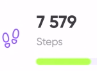
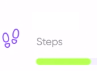
installed react carosel for scroll effect

Changed region(s): [[0.4948, 0.1972, 0.8041, 0.3944], [0.3711, 0.1972, 0.4639, 0.3944]]

diff --git a/src/components/Landing/carousel/CarouselComponent.jsx b/src/components/Landing/carousel/CarouselComponent.jsx
@@ -1,0 +1,63 @@
+import React from "react";
+import Carousel from "react-elastic-carousel";
+import "./Styles.css";
+import { Item } from "./Item";
+import step1 from "../../../assets/step1.png";
+import stp3 from "../../../assets/stp3.png";
+import step2 from "../../../assets/step2.png";
+
+const CarouselData = [
+  {
+    id: 1,
+    icon: step1,
+    caption: "walking foot",
+    amount: "7 579",
+    sub: "",
+  },
+  {
+    id: 2,
+    icon: step2,
+    caption: "Active Users",
+    amount: "866",
+    sub: "",
+  },
+  {
+    id: 3,
+    icon: stp3,
+    caption: "Active Users",
+    amount: "27",
+    sub: "mins",
+  },
+];
+
+const breakPoints = [
+  { width: 1, itemsToShow: 1 },
+  { width: 500, itemsToShow: 2 },
+  { width: 768, itemsToShow: 2 },
+  { width: 1280, itemsToShow: 2 },
+  { width: 1000, itemsToShow: 2 },
+];
+
+const CarouselComponent = () => {
+  return (
+    <Carousel
+      breakPoints={breakPoints}
+      pagination={false}
+      className="carousel-root"
+    >
+      {CarouselData.map((item, index) => (
+        <Item key={index} className="item-div">
+          <div className="usercard">
+            <h3 className="name">
+              {item.amount} <sub style={{ fontWeight: "100" }}>{item.sub}</sub>
+            </h3>
+
+            <img src={item.icon} alt="" className="img" />
+          </div>
+        </Item>
+      ))}
+    </Carousel>
+  );
+};
+
+export default CarouselComponent;

diff --git a/src/pages/LandingPage.jsx b/src/pages/LandingPage.jsx
@@ -9,6 +9,7 @@ import { Footer } from "../components/Landing/Footer";
 import AOS from "aos";
 import "aos/dist/aos.css";
 import { useEffect } from "react";
+// eslint-disable-next-line
 import UsersDashboardCard, {
   SingleCard,
   WeightCardLine,
@@ -16,6 +17,7 @@ import UsersDashboardCard, {
   BMICardBar,
 } from "../components/WorkoutCard";
 import { AddModal } from "../components/AddModal";
+import CarouselComponent from "../components/Landing/carousel/CarouselComponent";
 export const LandingPage = () => {
   const [active, setActive] = useState();
   // eslint-disable-next-line
@@ -110,11 +112,9 @@ export const LandingPage = () => {
           </Nav>
           <br />
           <br />
-          <br />
-          <br />
-          <br />
           <WorkOutCard>
-            <UsersDashboardCard />
+            {/* <UsersDashboardCard /> */}
+            <CarouselComponent />
           </WorkOutCard>
           <div
             className="displayText"
@@ -160,7 +160,6 @@ export const LandingPage = () => {
             <p>see all</p>
           </div>{" "}
           <SingleCard />
-          <br />
           <br />
           <br />
           <br />

diff --git a/src/components/Landing/carousel/Item.js b/src/components/Landing/carousel/Item.js
@@ -1,0 +1,44 @@
+import styled from "styled-components";
+
+export const Item = styled.div`
+  display: flex;
+  flex-direction: column;
+  align-items: flex-start;
+  padding: 20px 16px;
+  /* gap: 24px; */
+  width: 95%;
+  height: 100px;
+  background: #fff;
+  box-shadow: 3px 5px 20px rgba(0, 0, 0, 0.04);
+  border: 1px solid rgba(33, 63, 125, 0.06);
+  padding: 20%;
+  margin: 6%;
+  border-radius: 26px;
+
+  #userDashboard {
+    width: 100%;
+  }
+  #usercard {
+    display: flex;
+    flex-direction: column;
+    height: 130px;
+    min-width: 50%;
+    word-wrap: break-word;
+    background-color: #fff;
+    background-clip: border-box;
+    box-shadow: 3px 5px 20px rgba(0, 0, 0, 0.04);
+    border-radius: 16px;
+    border: 1px solid rgba(33, 63, 125, 0.06);
+    justify-content: center;
+    align-items: center;
+    padding: 6%;
+  }
+
+  & #usercard .img {
+    width: 100%;
+    height: 100%;
+    border-radius: 50%;
+    margin-bottom: 1rem;
+    margin-left: 25%;
+  }
+`;

diff --git a/src/styles/LandingStyles.js b/src/styles/LandingStyles.js
@@ -260,7 +260,7 @@ export const WorkOutCardi = styled.div`
   padding: 3%;
   gap: 40px;
 
-  * #userDashboard {
+   #userDashboard {
     width: 100%;
   }
   #usercard {

diff --git a/src/components/Landing/carousel/Styles.css b/src/components/Landing/carousel/Styles.css
@@ -1,0 +1,9 @@
+
+
+@media screen and (max-width: 500px) {
+    
+    .rec.rec-arrow {
+        border: none
+    }
+
+}
